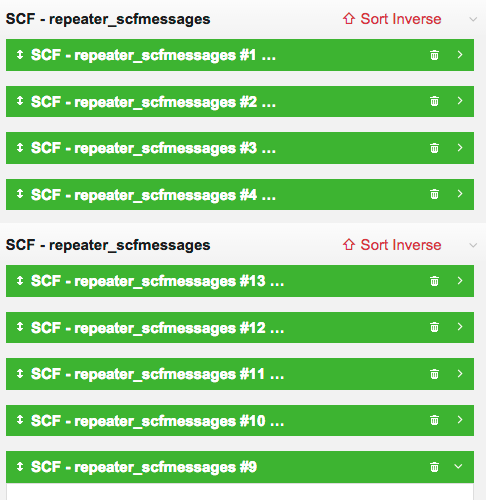
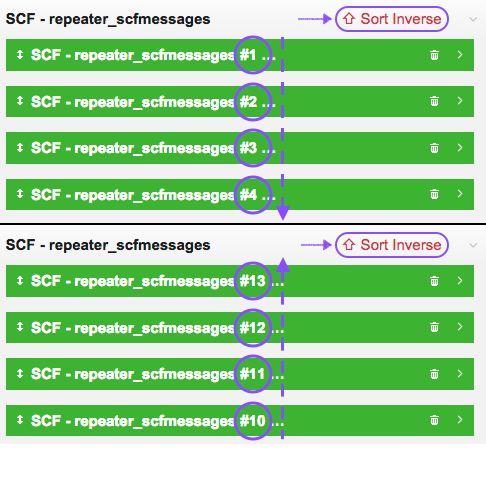
updating readme

diff --git a/doc/settings.md b/doc/settings.md
@@ -5,35 +5,37 @@
 - [Usage](usage.md)
 - [Logging](logging.md)
 - [Upgrade Notes](upgrade.md)
-- [Clean Up](cleanup.md)
-
 
 # SimpleContactForm for ProcessWire: Module Settings
 
 | setting                         | description                                                                                                                                                                                                     | default                                  |
 | ------------------------------- | --------------------------------------------------------------------------------------------------------------------------------------------------------------------------------------------------------------- | ---------------------------------------- |
-| GENERAL                         | &#9662;                                                                                                                                                                                                         | -                                        |
+| &#9662; **GENERAL**             | &nbsp;                                                                                                                                                                                                          | &nbsp;
 | saveMessages                    | whether to save received messages                                                                                                                                                                               | true                                     |
 | useTwig                         | Check if you use Twig as template engine                                                                                                                                                                        | false                                    |
-| EMAIL                           | &#9662;                                                                                                                                                                                                         | -                                        |
+| &nbsp;                          | &nbsp;                                                                                                                                                                                                          | &nbsp;                                   |
+| &#9662; **EMAIL**               | &nbsp;                                                                                                                                                                                                          | &nbsp;                                   |
 | fullName                        | Full name of the recipient                                                                                                                                                                                      | Firstname Lastname                       |
 | emailTo                         | E-mail address of the recipient                                                                                                                                                                                 | xxx@xxx.xx                               |
 | emailSubject                    | E-Mail subject                                                                                                                                                                                                  | New Web Contact Form Submission          |
 | emailServer                     | Server address                                                                                                                                                                                                  | noreply@server.com                       |
-| FIELDS                          | &#9662;                                                                                                                                                                                                         | -                                        |
+| &nbsp;                          | &nbsp;                                                                                                                                                                                                          | &nbsp;                                   |
+| &#9662; **FIELDS**              | &nbsp;                                                                                                                                                                                                          | &nbsp;                                   |
 | allFields                       | Comma-separated list of all fields                                                                                                                                                                              | fullName,email,message                   |
 | requiredFields                  | Comma-seperated list of required fields                                                                                                                                                                         | fullName,email,message                   |
 | emailField                      | field, which should be validated as an E-mail address                                                                                                                                                           | email                                    |
-| MESSAGES                        | &#9662;                                                                                                                                                                                                         | -                                        |
+| &nbsp;                          | &nbsp;                                                                                                                                                                                                          | &nbsp;                                   |
+| &#9662; **MESSAGES**            | &nbsp;                                                                                                                                                                                                          | &nbsp;                                   |
 | successMessage                  | Success message                                                                                                                                                                                                 | Thank you, your submission has been sent |
 | errorMessage                    | Error Message                                                                                                                                                                                                   | Please verify the data you have entered  |
-| SPAM                            | &#9662;                                                                                                                                                                                                         | _                                        |
+| &nbsp;                          | &nbsp;                                                                                                                                                                                                          | &nbsp;                                   |
+| &#9662; **SPAM**                | &nbsp;                                                                                                                                                                                                          | &nbsp;                                   |
 | antiSpamTimeMin                 | It parses the time the user needs to fill out the form.  If the time is below a minimum time, the submission is treated as Spam.                                                                                | 5                                        |
 | antiSpamTimeMax                 | It parses the time the user needs to fill out the form.  If the time is over a maximum time, the submission is treated as Spam.                                                                                 | 90                                       |
 | antiSpamPerDay                  | How often the form is allowed to be submitted by a single IP address in the last 24 hours.                                                                                                                      | 3                                        |
 | antiSpamExcludeIps              | Comma-Seperated list of IP addresses to be excluded from IP filtering.                                                                                                                                          | 127.0.0.1                                |
 | antiSpamCountAdditionalInputs   | Number of additional inputs. Spam bots often send more than the number of available fields. Default 5 (scf-date + scf-website + submitted + token + submit). AllFields will be added automatically.             | 5                                        |
-| UNINSTALL                       | &#9662;                                                                                                                                                                                                         | -                                        |
+| &nbsp;                          | &nbsp;                                                                                                                                                                                                          | &nbsp;                                   |
+| &#9662; **UNINSTALL**           | &nbsp;                                                                                                                                                                                                          | &nbsp;                                   |
 | cleanup                         | If you check the following box all data containing files as well as database content will be permanently erased with no chance for recovery. It's recommended to make a backup before uninstalling this module. | false                                    |
 | uninstall                       | Uninstall this module? After uninstalling, you may remove the modules files from the server if it is not in use by any other modules.                                                                           | false                                    |
-

diff --git a/doc/spam.md b/doc/spam.md
@@ -5,10 +5,16 @@
 - [Usage](usage.md)
 - [Logging](logging.md)
 - [Upgrade Notes](upgrade.md)
-- [Clean Up](cleanup.md)
 
+# Spam Protection
 
-# SimpleContactForm for ProcessWire: Spam Protection
+## Hints
+
+If a message is treated as spam the user will be redirected directly to the root page and an entry in the spam log file will be added containing the reason why.
+
+> ▸ site ▸ assets ▸ logs ▸ simplecontactform-spam-log.txt
+
+	2015-04-09 12:40:53	Honeypot field was filled.
 
 ## Mark messages as spam
 
@@ -20,20 +26,26 @@ There are two options:
 
 To mark a message as spam go to `Pages Tree > scfmessages > edit`. Each message has two checkboxes to mark, either the email address as spam or the ip address.
 
+![Mark message as Spam](https://github.com/justonestep/processwire-simplecontactform/blob/master/screens/blacklist.png)
+
 In order to get the latest message to the beginning of the list, click the **⇧ Sort Inverse** at the right corner of the list.
+
+![Sort inverse](https://github.com/justonestep/processwire-simplecontactform/blob/master/screens/sort-inverse.png)
 
 ## CSRF token validation
 
 This module uses CSRF token validation, if you don't know what it's all about, have a look [at the ProcessWire Forum](https://processwire.com/talk/topic/3779-use-csrf-in-your-own-forms/).
 
+If you're upgrading from version 0.0.9 and below please follow the [instructions here](upgrade.md).
+
 ## Settings
 
 | setting                         | description                                                                                                                                                                                                     | default                                  |
 | ------------------------------- | --------------------------------------------------------------------------------------------------------------------------------------------------------------------------------------------------------------- | ---------------------------------------- |
-| antiSpamTimeMin                 | It parses the time the user needs to fill out the form.  If the time is below a minimum time, the submission is treated as Spam.                                                                                | 5                                        |
-| antiSpamTimeMax                 | It parses the time the user needs to fill out the form.  If the time is over a maximum time, the submission is treated as Spam.                                                                                 | 90                                       |
-| antiSpamPerDay                  | How often the form is allowed to be submitted by a single IP address in the last 24 hours.                                                                                                                      | 3                                        |
-| antiSpamExcludeIps              | Comma-Seperated list of IP addresses to be excluded from IP filtering.                                                                                                                                          | 127.0.0.1                                |
-| antiSpamCountAdditionalInputs   | Number of additional inputs. Spam bots often send more than the number of available fields. Default 5 (scf-date + scf-website + submitted + token + submit). AllFields will be added automatically.             | 5                                        |
+| antiSpamTimeMin                 | It parses the time the user needs to fill out the form.  If the time is below a minimum time, the submission is treated as Spam.                                                                                | `5`                                        |
+| antiSpamTimeMax                 | It parses the time the user needs to fill out the form.  If the time is over a maximum time, the submission is treated as Spam.                                                                                 | `90`                                       |
+| antiSpamPerDay                  | How often the form is allowed to be submitted by a single IP address in the last 24 hours.                                                                                                                      | `3`                                        |
+| antiSpamExcludeIps              | Comma-Seperated list of IP addresses to be excluded from IP filtering.                                                                                                                                          | `127.0.0.1`                                |
+| antiSpamCountAdditionalInputs   | Number of additional inputs. Spam bots often send more than the number of available fields. Default 5 (scf-date + scf-website + submitted + token + submit). AllFields will be added automatically.             | `5`                                        |
 
 

diff --git a/doc/usage.md b/doc/usage.md
@@ -5,10 +5,8 @@
 - [➻ Usage](usage.md)
 - [Logging](logging.md)
 - [Upgrade Notes](upgrade.md)
-- [Clean Up](cleanup.md)
 
-
-# SimpleContactForm for ProcessWire: Usage
+# Usage
 
 1. Create a template for your contact form page (if you don't already have one).
 2. Add the fields you want to use to this template as you are used to.
@@ -37,7 +35,23 @@
 	{% endif %}
 	```
 	
-**Note:** You have to include the module in your own template file first. After that, reload a frontend page using this template. After that, the additional templates are available.
+**Note:** You have to include the module in your own template file.
+
+**If the form is submitted successfully**
+
+ * a success message is shown 
+ * an email was sent
+ * a log entry was created
+ * if save messages setting is turned on the message got saved
+
+ 
+**If an error occurs**
+
+ * an error message is shown
+ * **or:** 
+  * the message was marked as spam
+  * redirect to root page
+  * a log entry was created   
 	
 ## New Template "simple_contact_form"
 
@@ -54,7 +68,7 @@ just make sure to maintain the names of the fields.
 ## saveMessages enabled? 
 
 * new page **scf-messages** (your-url.xx/scf-messages)
-* new template **simple_contact_form**
+* new template **simple_contact_form_messages**
 
 tl;dr: If `saveMessages` is enabled, a new page `scf-messages` will be created.
 Also a new repeater field containing all set up fields is added.
@@ -66,3 +80,19 @@ Otherwise the user will be redirected to the root page.
 Failing that the user will be redirected to the root page.
 You can modify that templates for your own needs.
 
+![Save Messages](https://github.com/justonestep/processwire-simplecontactform/blob/master/screens/received-messages.png)
+
+## add and remove fields
+
+**(A) add fields**
+
+* fields get added to database and template
+* because I do not know your html structure the fields will be placed in a separate list at the beginning of your template
+* make sure to adapt your html structure
+
+**(B) remove fields**
+
+* fields are not removed from database
+* fields are removed from templates
+* again I do not know your html structure so only the `label` and `input` entrys are removed
+* maybe there will be an empty list entry, you have to remove it manually

diff --git a/doc/logging.md b/doc/logging.md
@@ -5,13 +5,22 @@
 - [Usage](usage.md)
 - [➻ Logging](logging.md)
 - [Upgrade Notes](upgrade.md)
-- [Clean Up](cleanup.md)
-
 
 # SimpleContactForm for ProcessWire: Logging
 
 This module creates two log files.
 
 * simplecontactform-log.txt
+ 
+ > ▸ site ▸ assets ▸ logs ▸ simplecontactform-log.txt
+
+		2015-04-09 11:02:15	Mozilla/5.0 (Macintosh; Intel Mac OS X 10_10_2) AppleWebKit/537.36 (KHTML, like Gecko) Chrome/39.0.2171.71 Safari/537.36, 127.0.0.1, email@test.com
+
+		
 * simplecontactform-spam-log.txt
+
+ > ▸ site ▸ assets ▸ logs ▸ simplecontactform-spam-log.txt
+
+		2015-04-09 12:40:53	Honeypot field was filled.
+
 

diff --git a/README.md b/README.md
@@ -13,14 +13,3 @@ Current version: 0.1.1 stable
 - [Usage](doc/usage.md)
 - [Logging](doc/logging.md)
 - [Upgrade Notes](doc/upgrade.md)
-- [Clean Up](doc/cleanup.md)
-
-@todo:
-
-- remove clean up nav link
-- add screens
-- hints:
-- redirect to root -> spam (log)
-- add remove fields / template structure
-- checkboxes mark as spam
-- sort inverse

diff --git a/doc/upgrade.md b/doc/upgrade.md
@@ -5,8 +5,6 @@
 - [Usage](usage.md)
 - [Logging](logging.md)
 - [➻ Upgrade Notes](upgrade.md)
-- [Clean Up](cleanup.md)
-
 
 # SimpleContactForm for ProcessWire: Upgrade Notes
 

diff --git a/doc/installation.md b/doc/installation.md
@@ -5,8 +5,6 @@
 - [Usage](usage.md)
 - [Logging](logging.md)
 - [Upgrade Notes](upgrade.md)
-- [Clean Up](cleanup.md)
-
 
 # SimpleContactForm for ProcessWire: Installation
 
